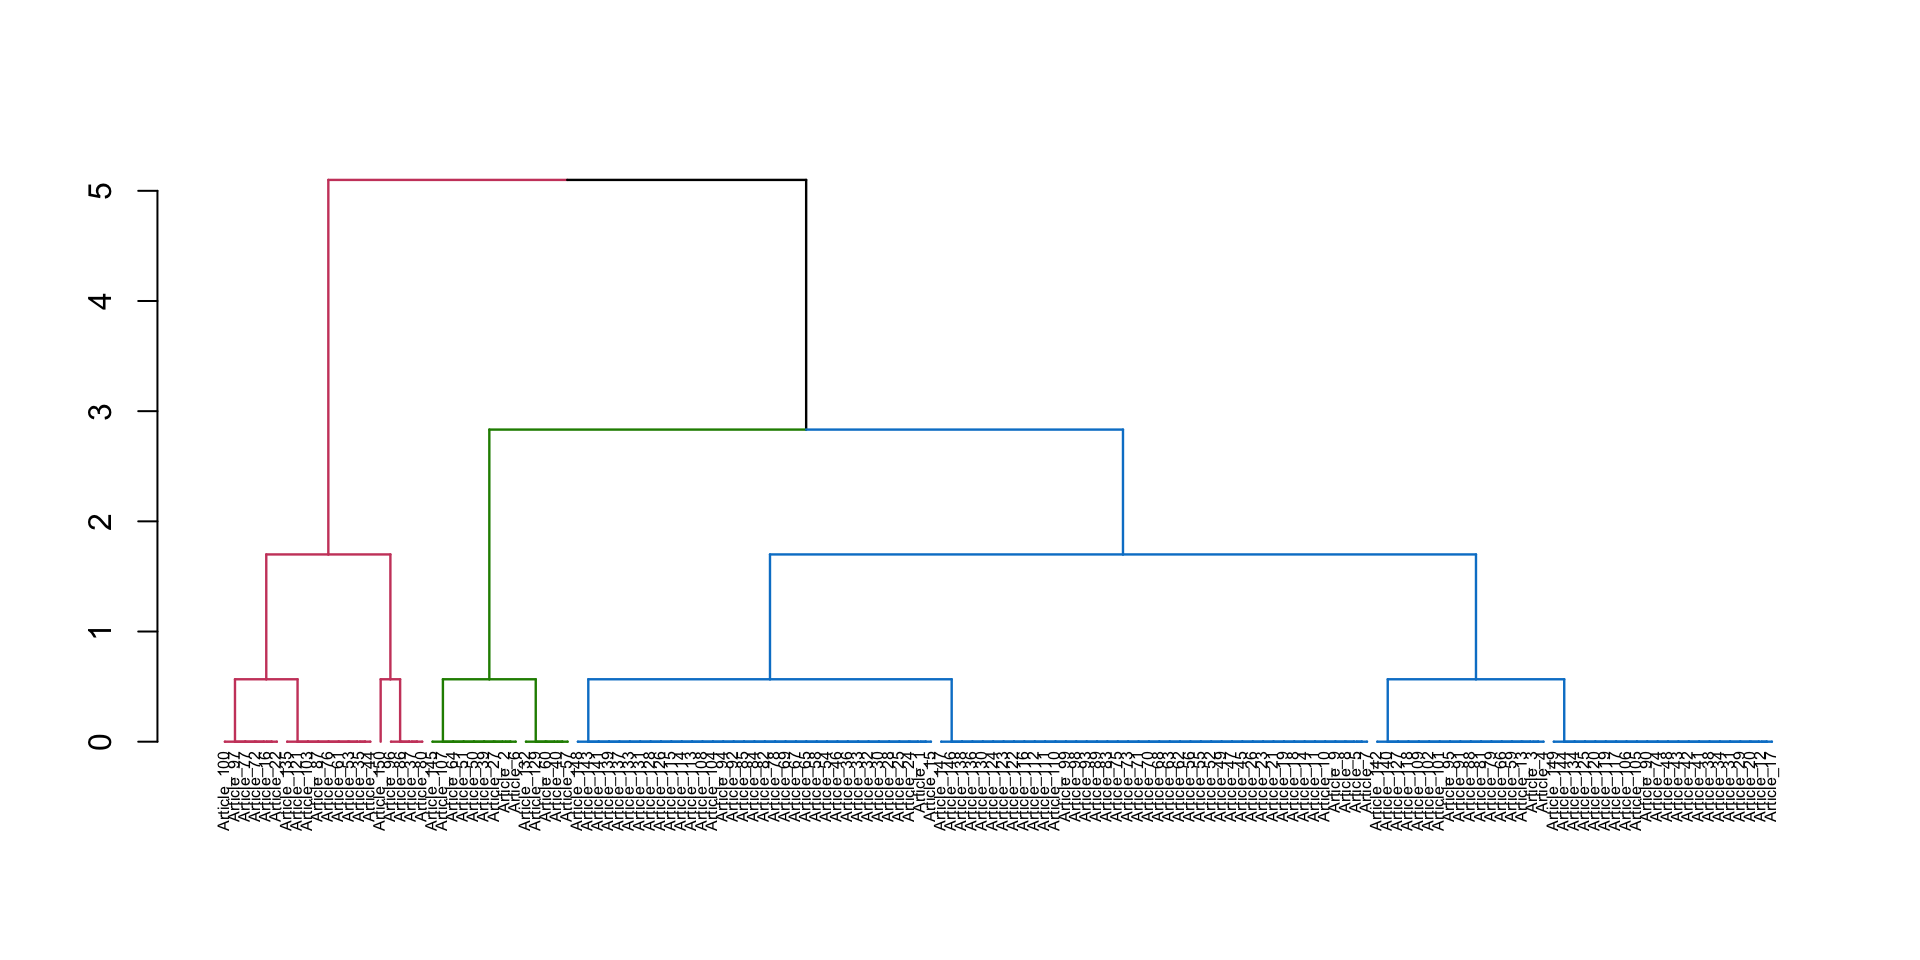
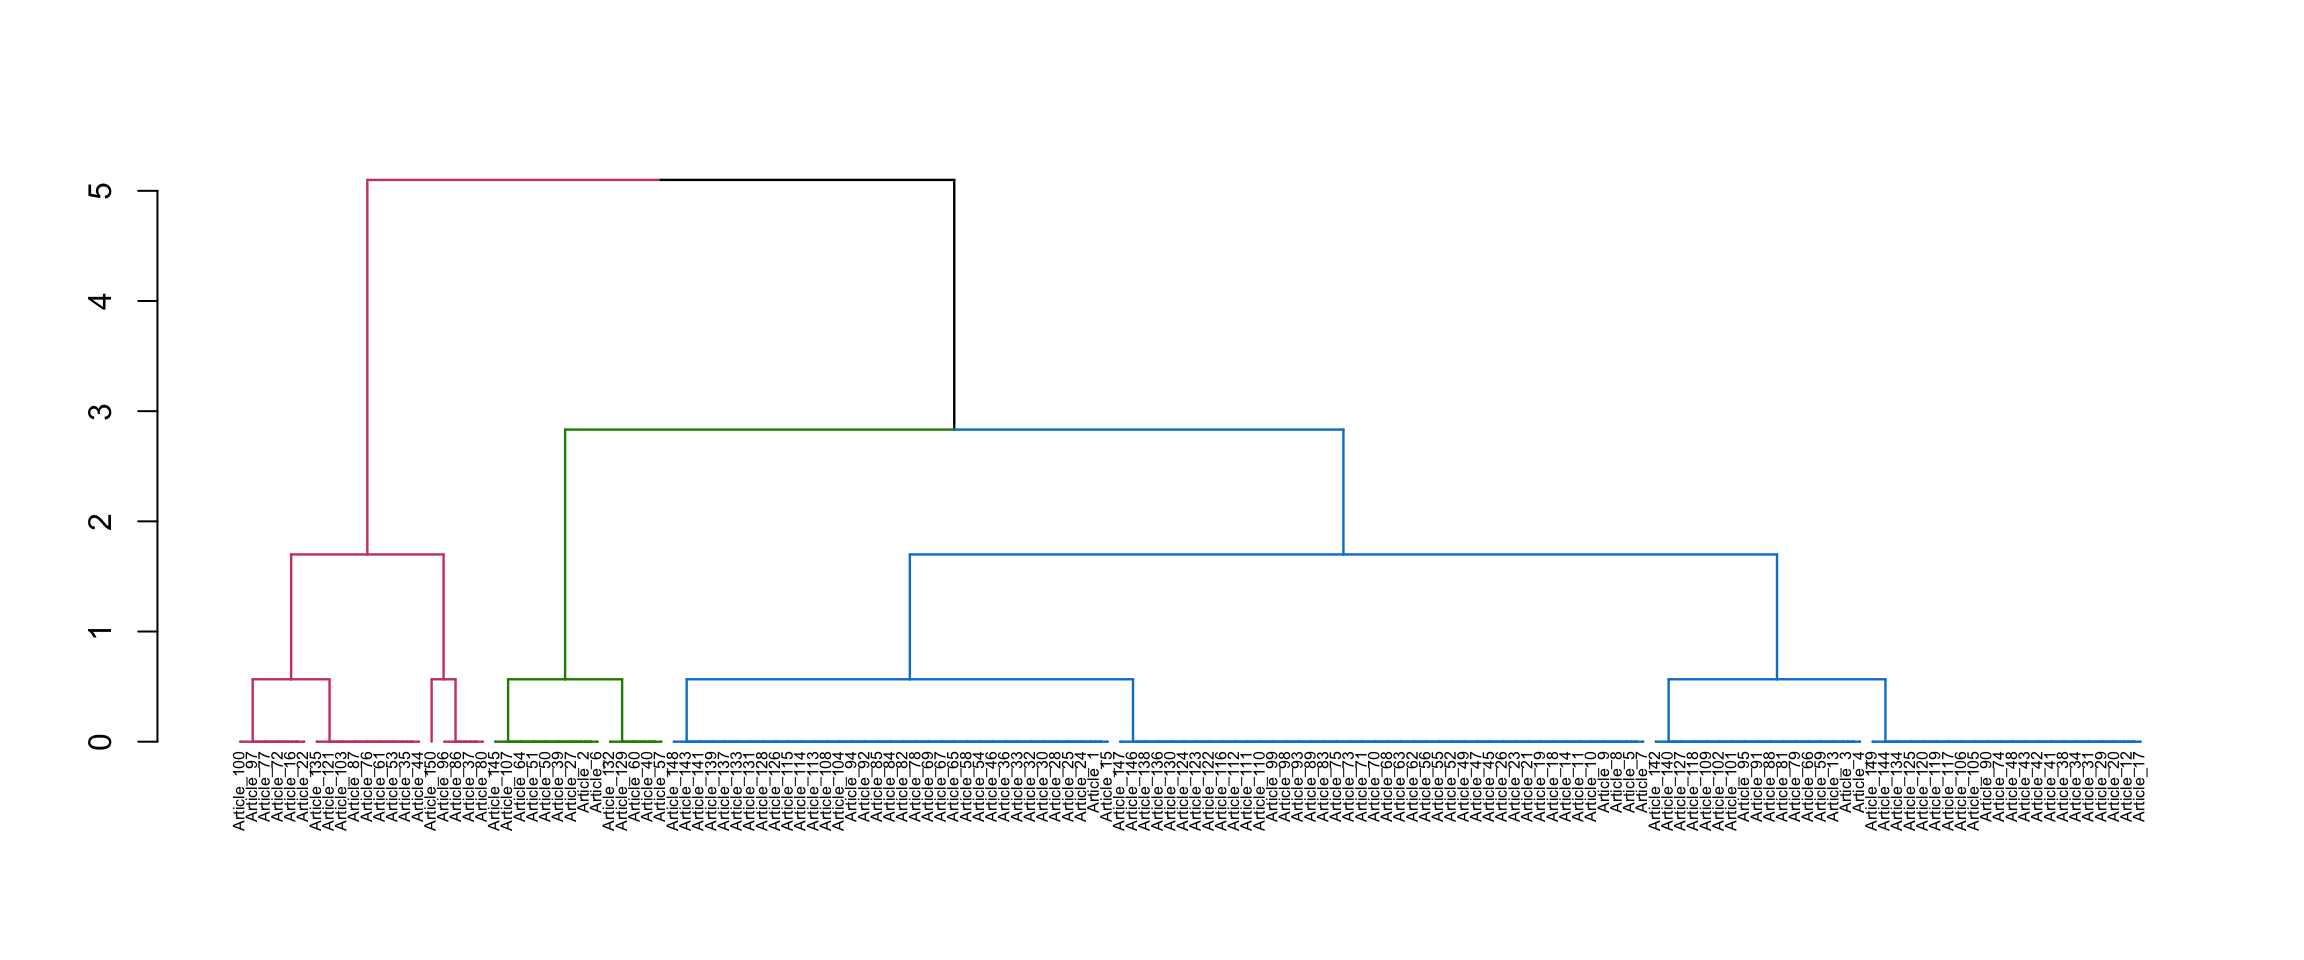
dend size

diff --git a/_site/pdf-screening.html b/_site/pdf-screening.html
@@ -755,7 +755,7 @@ Attaching package: 'dendextend'</code></pre>
 <div class="cell-output-display">
 <div>
 <figure class="figure">
-<p><img src="pdf-screening_files/figure-html/unnamed-chunk-6-1.png" class="img-fluid figure-img" width="960"></p>
+<p><img src="pdf-screening_files/figure-html/unnamed-chunk-6-1.png" class="img-fluid figure-img" width="1152"></p>
 </figure>
 </div>
 </div>
